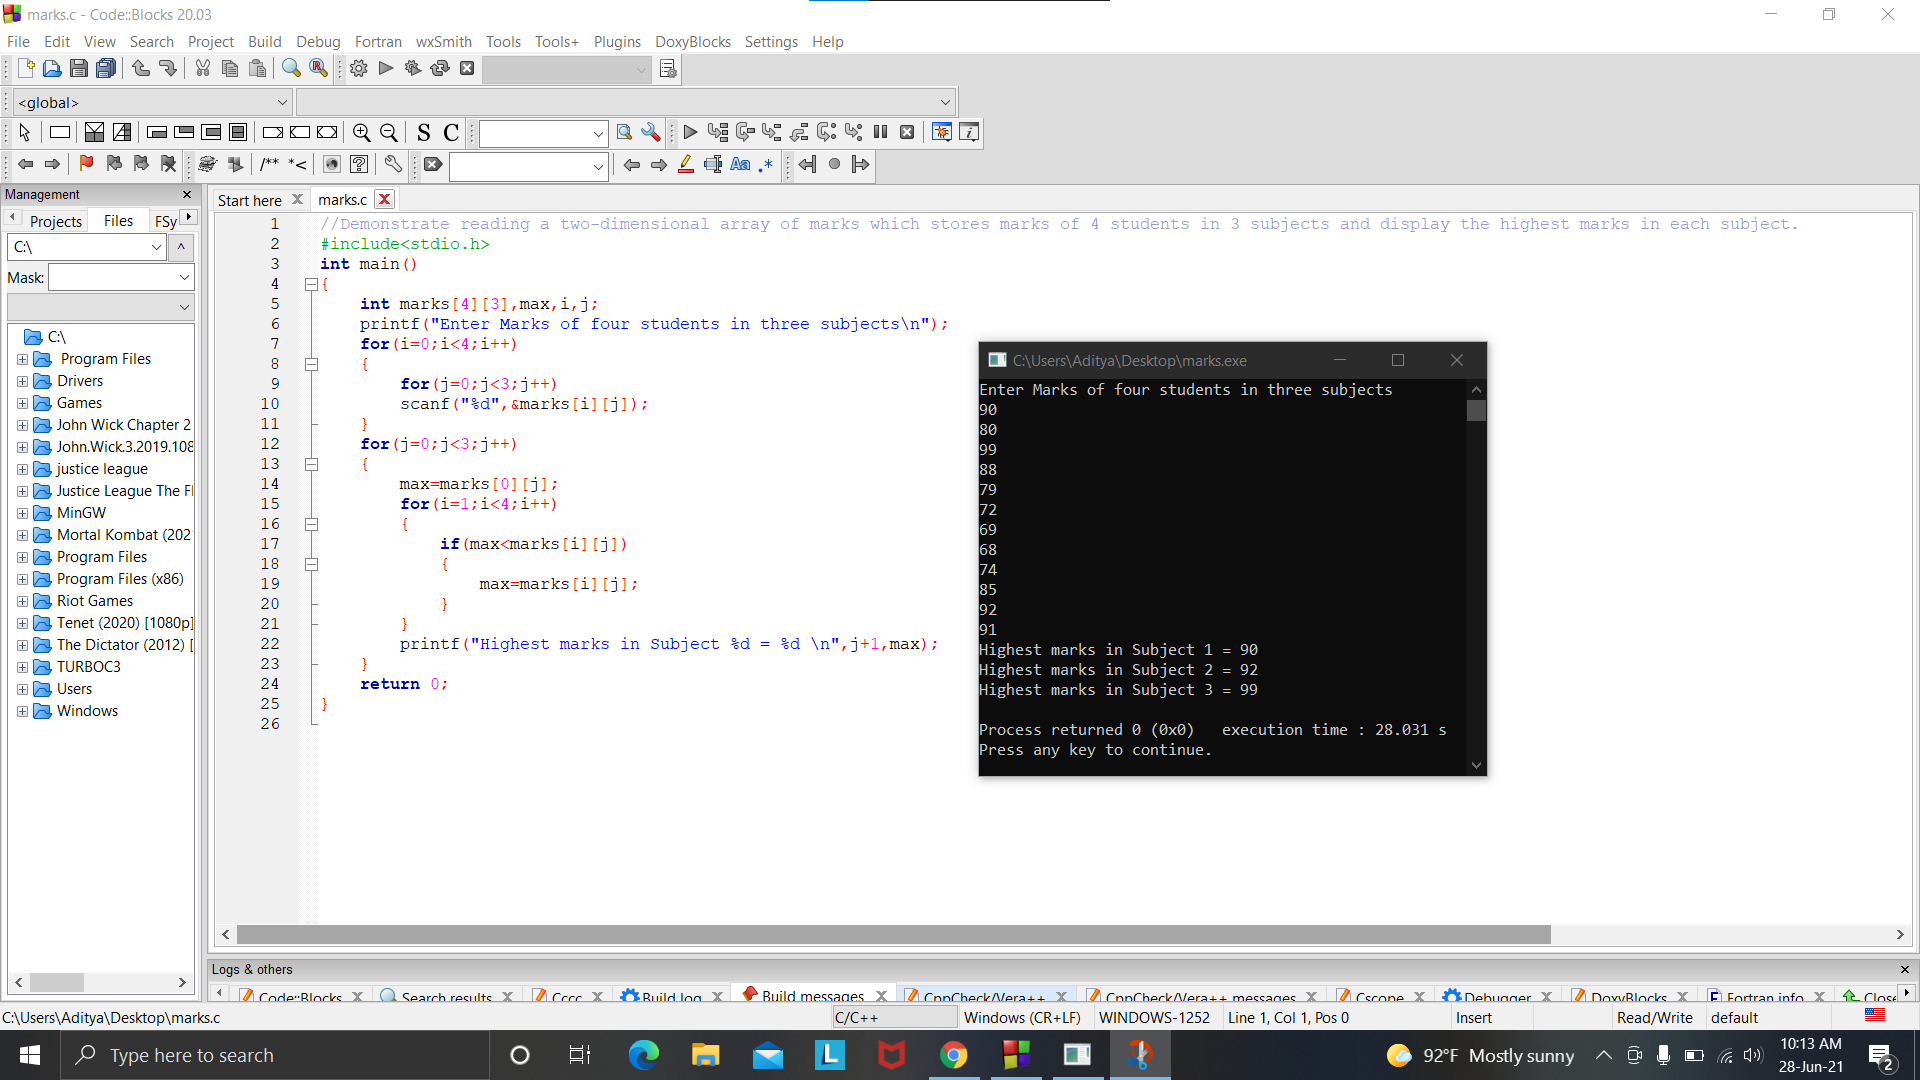
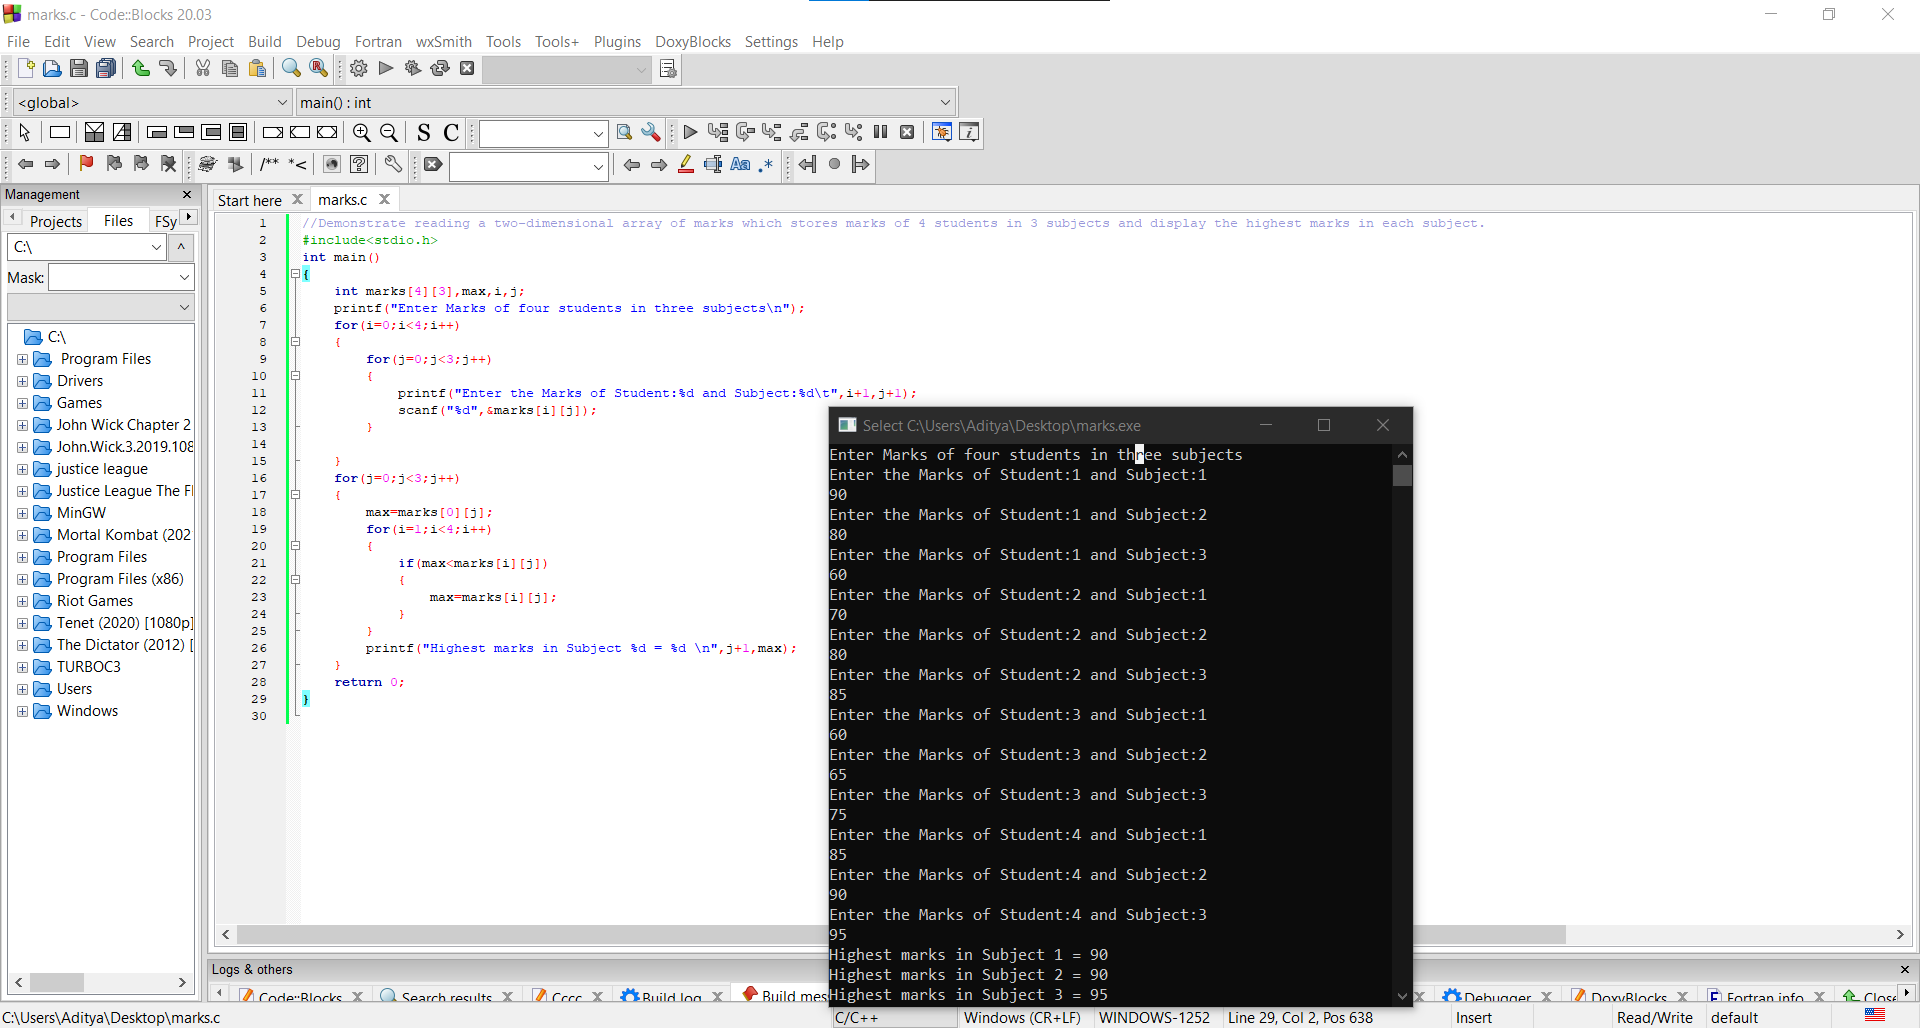
Add files via upload

Changed region(s): [[0.0, 0.3113, 1.0, 1.0], [0.0, 0.0, 0.9375, 0.716], [0.3438, 0.5914, 0.375, 0.6226]]

diff --git a/lab 7/matrixadd.c b/lab 7/matrixadd.c
@@ -1,0 +1,57 @@
+#include<stdio.h>
+#include<stdlib.h>
+int main()
+{
+	int mat1[10][10],mat2[10][10],mat3[10][10]={0},n1,m1,n2,m2,n3,m3;
+	printf("Enter number of Rows in 1st matrix\n");
+	scanf("%d",&n1);
+	printf("Enter Number of columns in 1st matrix\n");
+	scanf("%d",&m1);
+	printf("Enter number of Rows in 2nd matrix\n");
+	scanf("%d",&n2);
+	printf("Enter Number of columns in 2nd matrix\n");
+	scanf("%d",&m2);
+	if(n1!=n2 && m1!=m2)
+	{
+		printf("Enter correct number of rows and columns");
+		exit(0);
+	}
+	printf("Enter the elements of the matrix1\n");
+	for(int i=0;i<n1;i++)
+	{
+		for(int j=0;j<m1;j++)
+		{
+			scanf("%d",&mat1[i][j]);
+		}
+	}
+	printf("Enter the elements of the matrix2\n");
+	for(int i=0;i<n2;i++)
+	{
+		for(int j=0;j<m2;j++)
+		{
+			scanf("%d",&mat2[i][j]);
+		}
+	}
+	if(n1==n2 && m1==m2)
+	{
+		n3=n1;
+		m3=m1;
+		for(int i=0;i<n3;i++)
+		{
+			for(int j=0;j<m3;j++)
+			{
+				mat3[i][j]=mat1[i][j]+mat2[i][j];
+			}
+		}
+		printf("Matrices sum is \n");
+		for(int i=0;i<n3;i++)
+		{
+			printf("\n");
+			for(int j=0;j<m3;j++)
+			{
+				printf("%d\t",mat3[i][j]);
+			}
+		}
+	}
+	return 0;
+}

diff --git a/lab 7/marks.c b/lab 7/marks.c
@@ -7,7 +7,11 @@ int main()
 	for(i=0;i<4;i++)
 	{
 		for(j=0;j<3;j++)
-		scanf("%d",&marks[i][j]);
+		{
+			printf("Enter the Marks of Student:%d and Subject:%d\t",i+1,j+1);
+			scanf("%d",&marks[i][j]);
+		}
+
 	}
 	for(j=0;j<3;j++)
 	{
